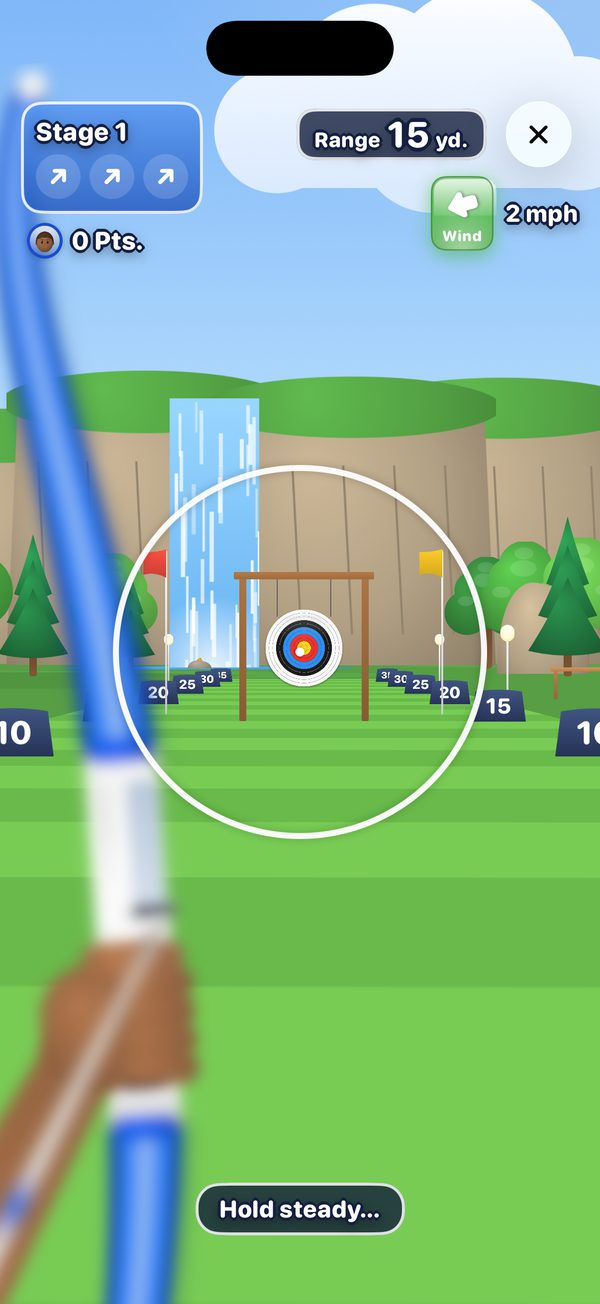
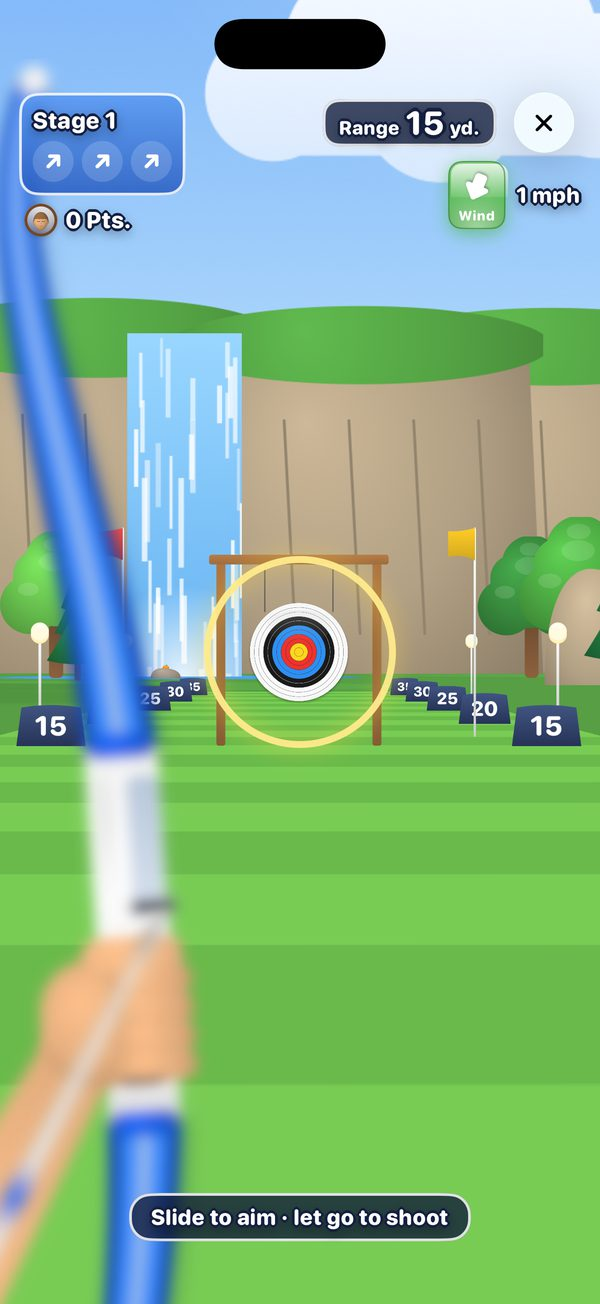
Use the www address in page links; refresh app screenshots
The site is served at www.frutigersports.kportal.net (the bare
subdomain has no DNS record), so canonical and social links now
point there. Screenshots retaken from the current build.

diff --git a/index.html b/index.html
@@ -6,15 +6,15 @@
   <meta name="viewport" content="width=device-width, initial-scale=1">
   <title>Frutiger Sports — Swing your iPhone to play</title>
   <meta name="description" content="Frutiger Sports is a bright, bubbly sports game for iPhone. Swing your phone to play table tennis, golf, bowling and archery — on your own or with a friend nearby.">
-  <link rel="canonical" href="https://frutigersports.kportal.net/">
+  <link rel="canonical" href="https://www.frutigersports.kportal.net/">
   <link rel="icon" type="image/png" href="assets/favicon.png">
   <link rel="apple-touch-icon" href="assets/apple-touch-icon.png">
   <meta name="theme-color" content="#2f8fe6">
   <meta property="og:type" content="website">
   <meta property="og:title" content="Frutiger Sports">
   <meta property="og:description" content="Swing your iPhone to play table tennis, golf, bowling and archery.">
-  <meta property="og:url" content="https://frutigersports.kportal.net/">
-  <meta property="og:image" content="https://frutigersports.kportal.net/assets/social-card.jpg">
+  <meta property="og:url" content="https://www.frutigersports.kportal.net/">
+  <meta property="og:image" content="https://www.frutigersports.kportal.net/assets/social-card.jpg">
   <meta name="twitter:card" content="summary_large_image">
   <link rel="stylesheet" href="styles.css">
 </head>

diff --git a/privacy/index.html b/privacy/index.html
@@ -6,7 +6,7 @@
   <meta name="viewport" content="width=device-width, initial-scale=1">
   <title>Privacy Policy — Frutiger Sports</title>
   <meta name="description" content="How Frutiger Sports handles your information: no accounts, no ads, no tracking, and your data stays on your iPhone.">
-  <link rel="canonical" href="https://frutigersports.kportal.net/privacy/">
+  <link rel="canonical" href="https://www.frutigersports.kportal.net/privacy/">
   <link rel="icon" type="image/png" href="../assets/favicon.png">
   <link rel="apple-touch-icon" href="../assets/apple-touch-icon.png">
   <meta name="theme-color" content="#2f8fe6">

diff --git a/support/index.html b/support/index.html
@@ -6,7 +6,7 @@
   <meta name="viewport" content="width=device-width, initial-scale=1">
   <title>Support — Frutiger Sports</title>
   <meta name="description" content="Help with Frutiger Sports: motion controls, Play Nearby, settings, and how to get in touch.">
-  <link rel="canonical" href="https://frutigersports.kportal.net/support/">
+  <link rel="canonical" href="https://www.frutigersports.kportal.net/support/">
   <link rel="icon" type="image/png" href="../assets/favicon.png">
   <link rel="apple-touch-icon" href="../assets/apple-touch-icon.png">
   <meta name="theme-color" content="#2f8fe6">

diff --git a/README.md b/README.md
@@ -2,15 +2,15 @@
 
 The website for **Frutiger Sports**, a bright, bubbly sports game for iPhone where your phone is the controller. Swing it to play table tennis, golf, bowling and archery, on your own or against a friend nearby.
 
-**Live site:** https://frutigersports.kportal.net
+**Live site:** https://www.frutigersports.kportal.net
 
 ## Pages
 
 | Page | URL | What it's for |
 | --- | --- | --- |
-| Home | [`/`](https://frutigersports.kportal.net/) | What the app is, the four sports, Play Nearby, and contact |
-| Privacy Policy | [`/privacy/`](https://frutigersports.kportal.net/privacy/) | How the app handles information (App Store privacy policy URL) |
-| Support | [`/support/`](https://frutigersports.kportal.net/support/) | Common questions and how to get help (App Store support URL) |
+| Home | [`/`](https://www.frutigersports.kportal.net/) | What the app is, the four sports, Play Nearby, and contact |
+| Privacy Policy | [`/privacy/`](https://www.frutigersports.kportal.net/privacy/) | How the app handles information (App Store privacy policy URL) |
+| Support | [`/support/`](https://www.frutigersports.kportal.net/support/) | Common questions and how to get help (App Store support URL) |
 
 ## About the app
 
@@ -45,7 +45,7 @@ python3 -m http.server 8000
 
 1. Push this folder's contents to the root of the repository.
 2. In the repository, go to **Settings › Pages** and set the source to **Deploy from a branch**, using the `main` branch and the `/ (root)` folder.
-3. The `CNAME` file sets the custom domain to `frutigersports.kportal.net`. At your DNS provider, add a `CNAME` record for `frutigersports` pointing to `<your-github-username>.github.io`.
+3. The `CNAME` file sets the custom domain to `www.frutigersports.kportal.net`. At your DNS provider, add a `CNAME` record for `www.frutigersports` pointing to `<your-github-username>.github.io`.
 4. Once the domain is verified, turn on **Enforce HTTPS** in **Settings › Pages**.
 
 ## Contact
